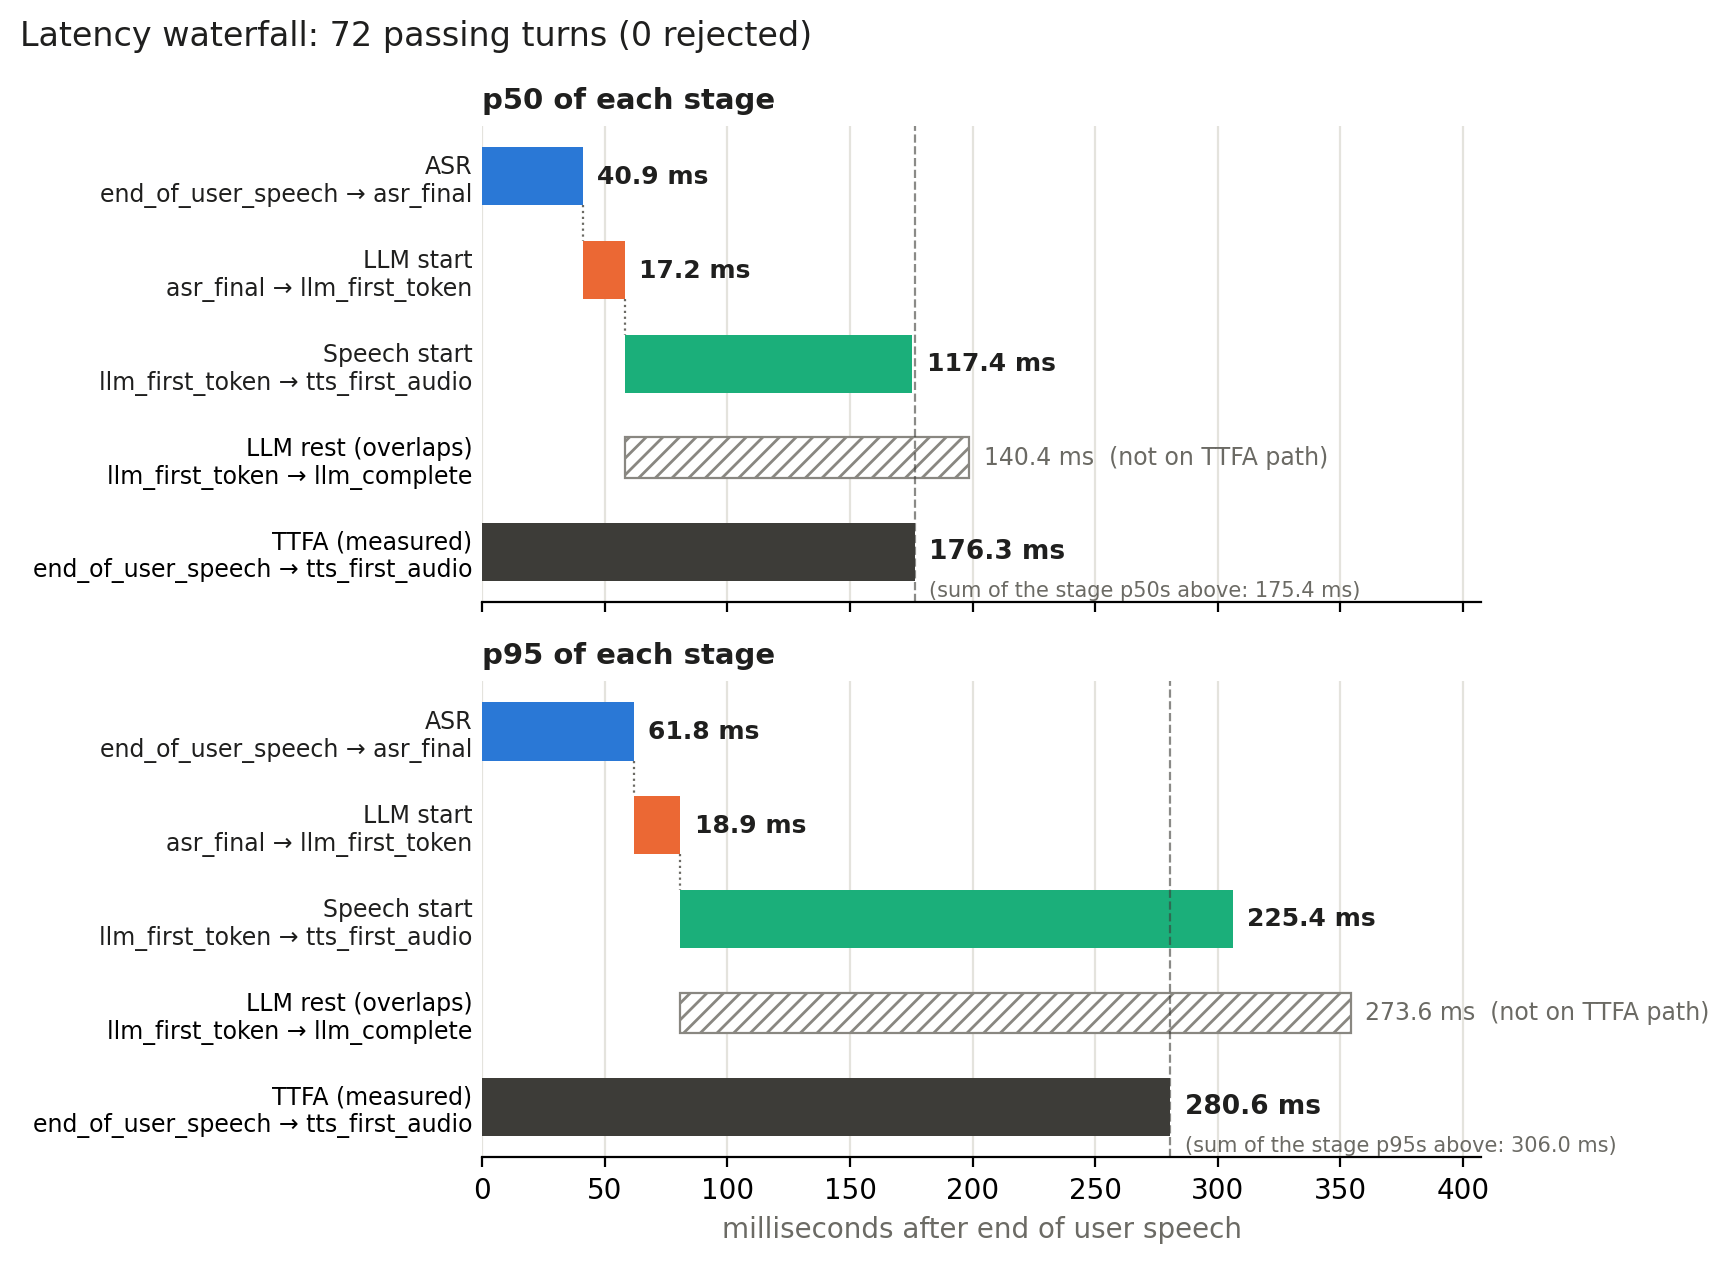
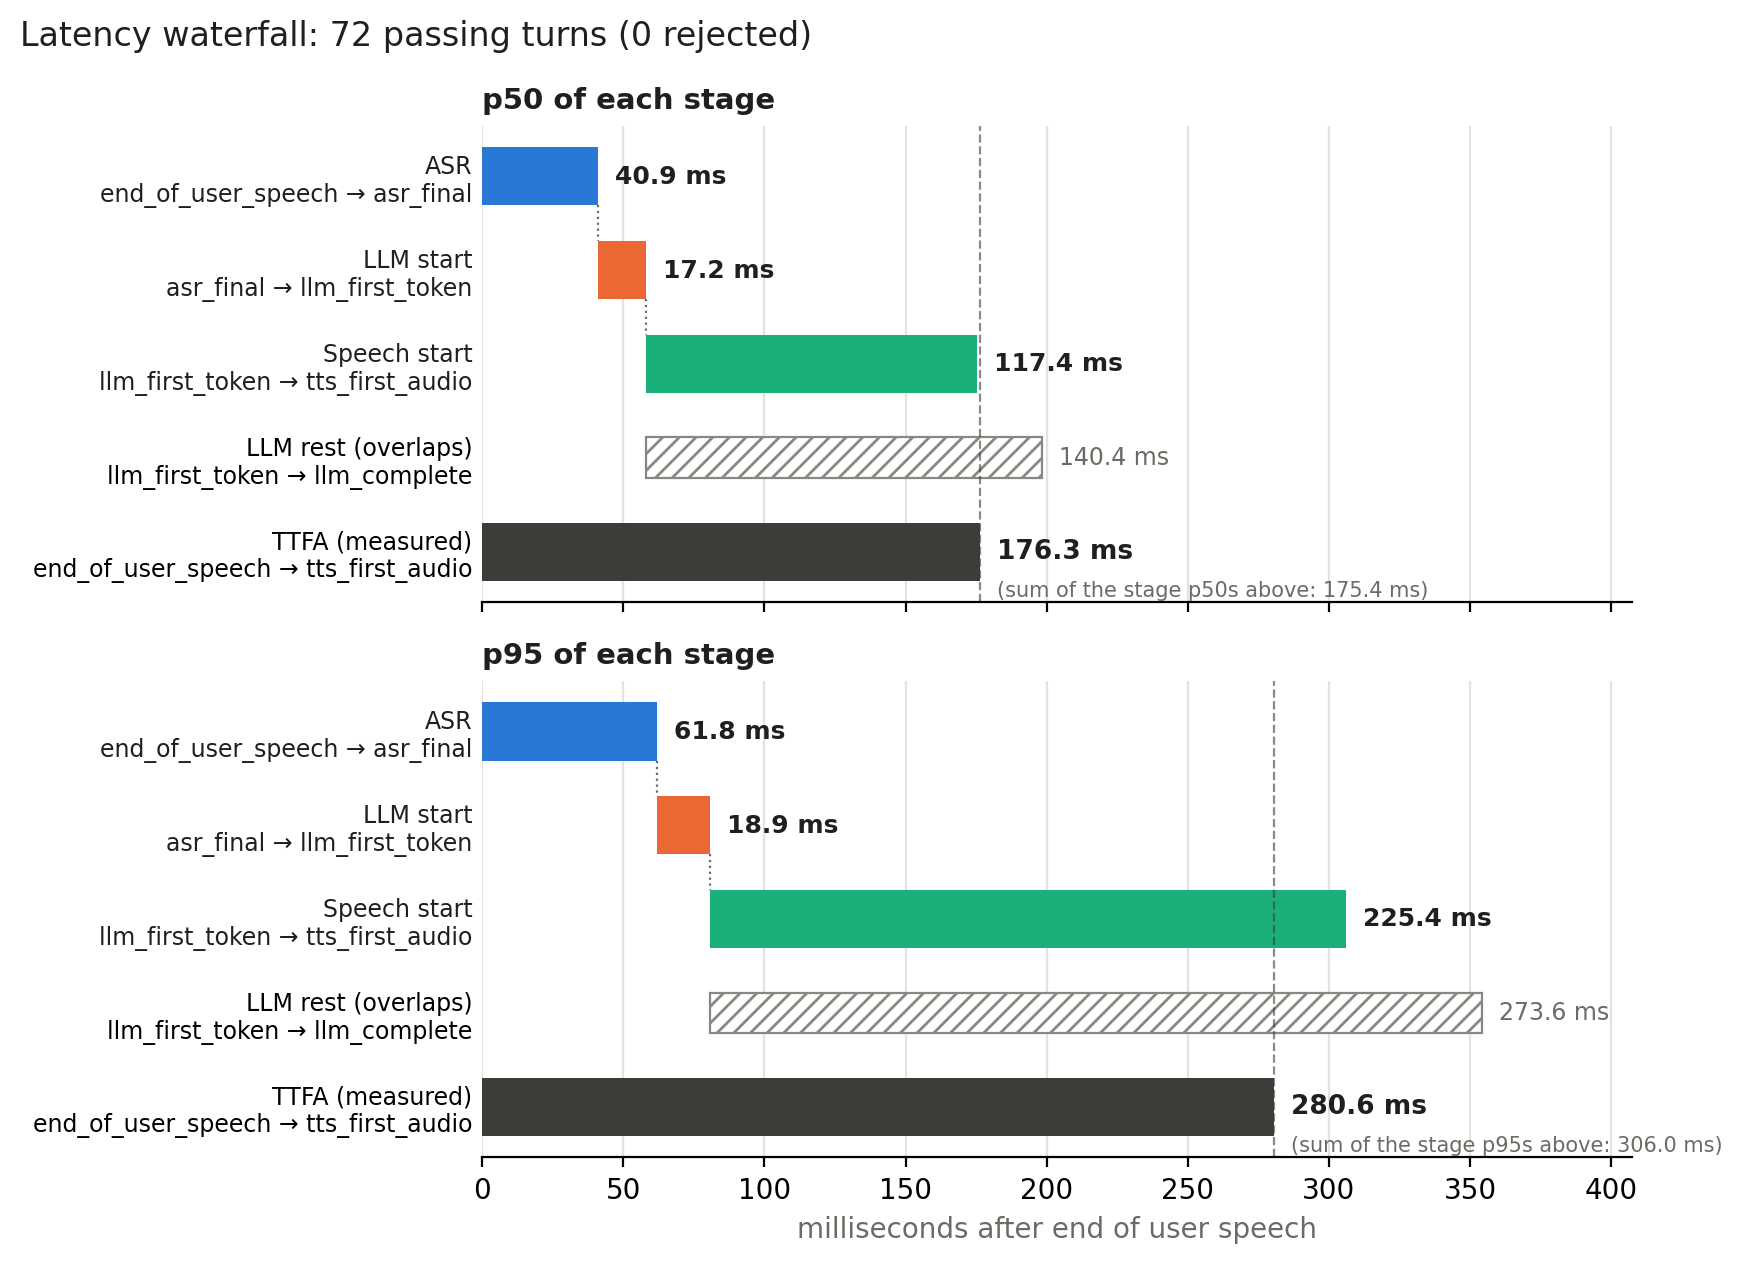
Label the off-path row of the waterfall with its value only

diff --git a/plot_waterfall.py b/plot_waterfall.py
@@ -132,7 +132,7 @@ def draw(numbers: dict, output: Path, title: str | None) -> None:
         remaining = numbers["stages"]["llm_remaining"][key]
         axes.barh(remaining_row, remaining, left=remaining_start, height=bar_height * 0.7,
                   color="white", edgecolor=OFF_PATH_COLOUR, hatch="////", linewidth=0.8)
-        axes.text(remaining_start + remaining + 6, remaining_row, f"{remaining:.1f} ms  (not on TTFA path)",
+        axes.text(remaining_start + remaining + 6, remaining_row, f"{remaining:.1f} ms",
                   ha="left", va="center", color=TEXT_SECONDARY, fontsize=8.5)
 
         ttfa_row = remaining_row + 1
